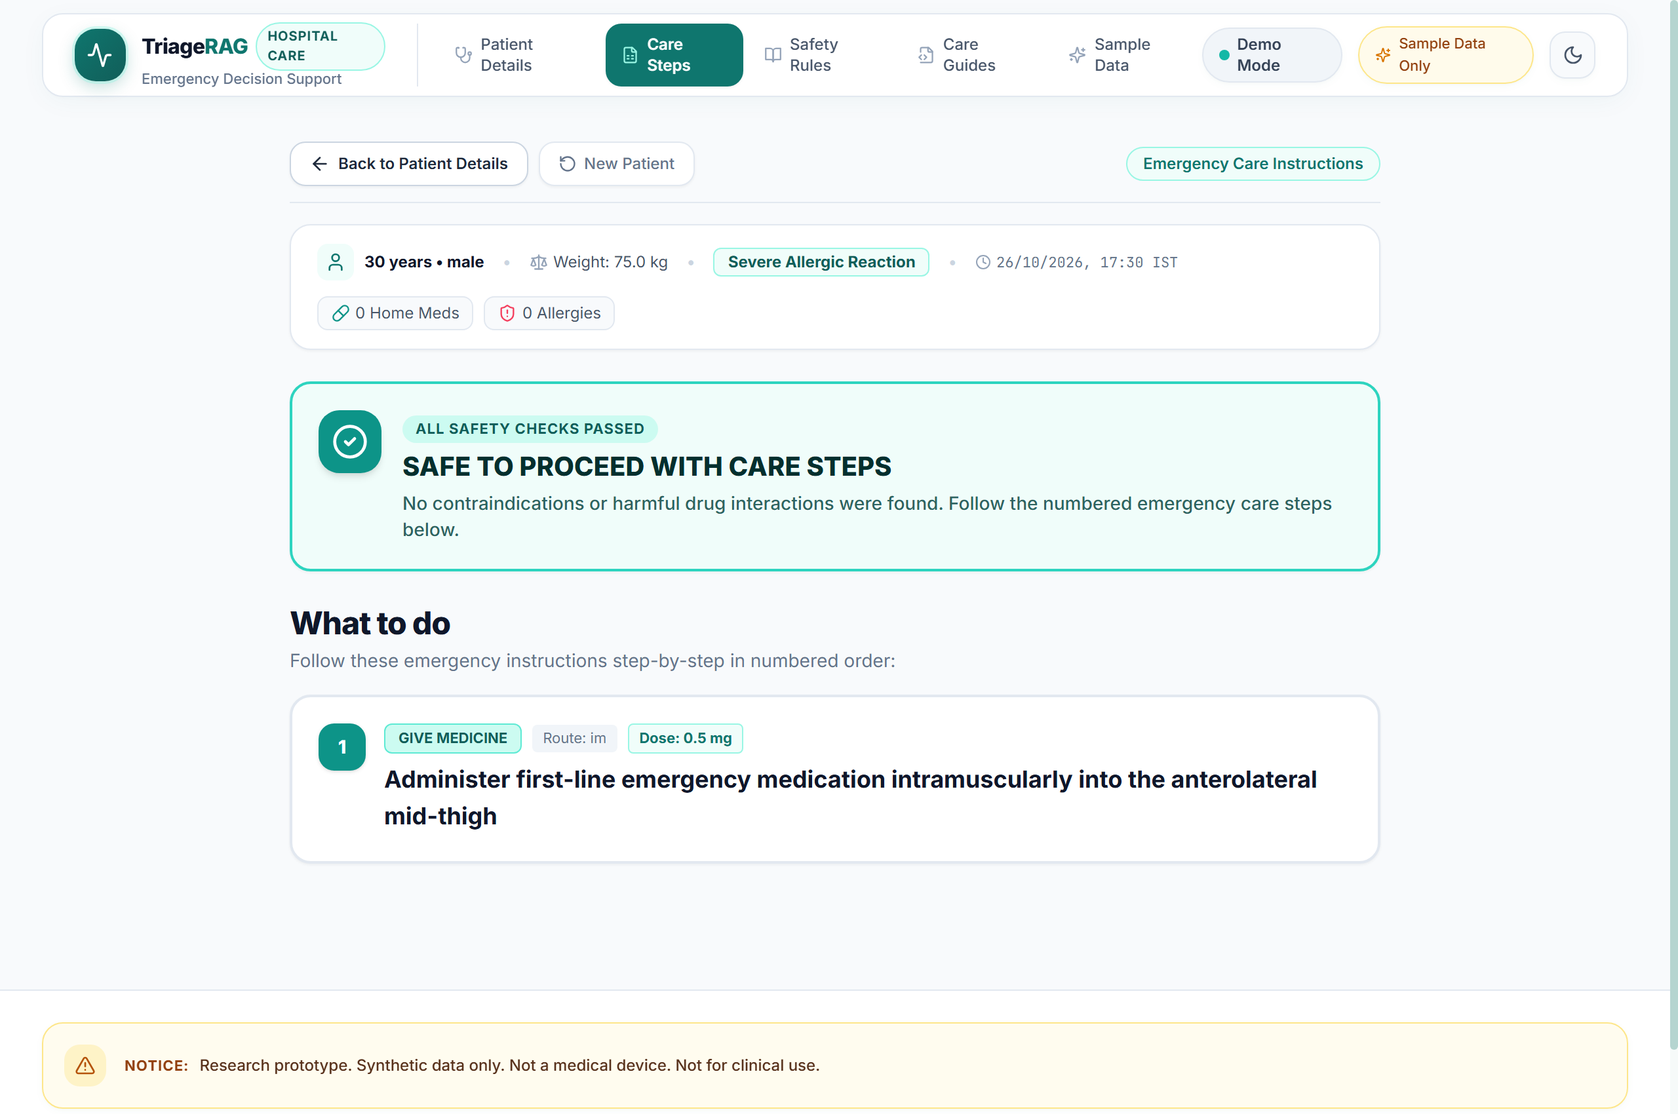
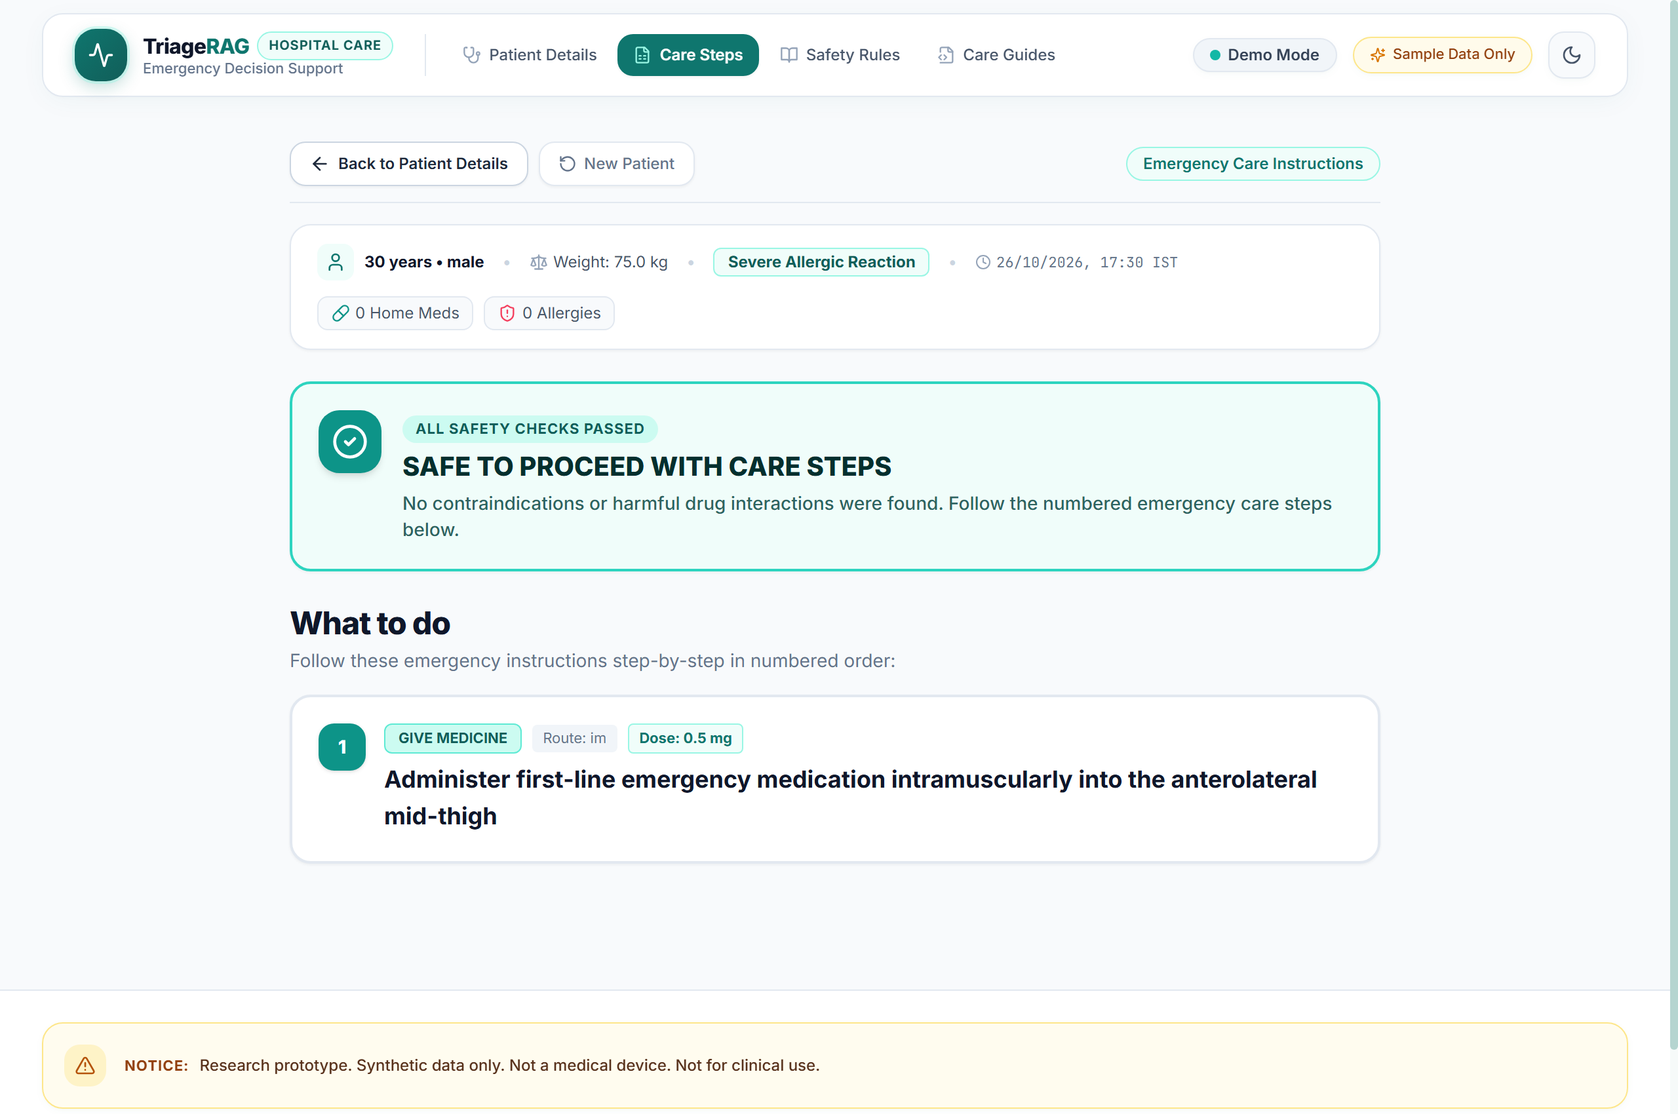
fix(ui): eliminate vitals text collision, remove sample data nav link, and unmount 1-click demo

Changed region(s): [[0.2812, 0.0, 0.6875, 0.0935], [0.0625, 0.0, 0.25, 0.0935], [0.7188, 0.0312, 0.9375, 0.0624]]

diff --git a/web/src/features/intake/MeasuredInput.tsx b/web/src/features/intake/MeasuredInput.tsx
@@ -33,58 +33,65 @@ export function MeasuredInput<T extends string | number>({
   helperText,
 }: MeasuredInputProps<T>) {
   return (
-    <div className="flex flex-col gap-1.5">
-      <div className="flex items-center justify-between">
-        <label className="text-xs font-semibold text-slate-800 dark:text-slate-200">
-          {label} {unit && <span className="text-teal-700 dark:text-teal-400 font-mono text-[11px]">({unit})</span>}
+    <div className="flex flex-col gap-2 rounded-2xl border border-slate-200/90 dark:border-slate-700/80 bg-slate-50/60 dark:bg-slate-800/40 p-3 transition-all hover:border-slate-300 dark:hover:border-slate-600">
+      {/* Row 1: Label and Unit cleanly separated */}
+      <div className="flex items-baseline justify-between gap-1">
+        <label className="text-xs font-bold text-slate-800 dark:text-slate-200 truncate" title={label}>
+          {label}
         </label>
-
-        {/* Tri-state selector: Measured / Estimated / Unknown */}
-        <div className="flex rounded-lg bg-slate-100 dark:bg-slate-700/80 p-0.5 border border-slate-200 dark:border-slate-600 text-[10px]">
-          <button
-            type="button"
-            onClick={() => onStatusChange('measured')}
-            title="Objectively measured clinical value"
-            className={`px-2 py-0.5 rounded-md font-medium transition-all ${
-              status === 'measured'
-                ? 'bg-white dark:bg-slate-600 text-teal-800 dark:text-teal-300 font-bold shadow-soft-sm border border-teal-200 dark:border-teal-700'
-                : 'text-slate-500 dark:text-slate-400 hover:text-slate-900 dark:hover:text-white'
-            }`}
-          >
-            Measured
-          </button>
-          <button
-            type="button"
-            onClick={() => onStatusChange('estimated')}
-            title="Clinically estimated value"
-            className={`px-2 py-0.5 rounded-md font-medium transition-all ${
-              status === 'estimated'
-                ? 'bg-amber-100 dark:bg-amber-950/70 text-amber-900 dark:text-amber-300 font-bold shadow-soft-sm border border-amber-300 dark:border-amber-700'
-                : 'text-slate-500 dark:text-slate-400 hover:text-slate-900 dark:hover:text-white'
-            }`}
-          >
-            Estimated
-          </button>
-          <button
-            type="button"
-            onClick={() => {
-              onStatusChange('unknown')
-              onValueChange(null)
-            }}
-            title="Unknown or not recorded"
-            className={`px-2 py-0.5 rounded-md font-medium transition-all ${
-              status === 'unknown'
-                ? 'bg-violet-100 dark:bg-violet-950/70 text-violet-900 dark:text-violet-300 font-bold shadow-soft-sm border border-violet-300 dark:border-violet-700'
-                : 'text-slate-500 dark:text-slate-400 hover:text-slate-900 dark:hover:text-white'
-            }`}
-          >
-            Unknown
-          </button>
-        </div>
+        {unit && (
+          <span className="text-[11px] font-mono font-semibold text-teal-700 dark:text-teal-400 shrink-0">
+            {unit}
+          </span>
+        )}
       </div>
 
+      {/* Row 2: Status Pill Segments spanning full width of card */}
+      <div className="grid grid-cols-3 rounded-lg bg-slate-200/70 dark:bg-slate-700/70 p-0.5 border border-slate-200 dark:border-slate-600 text-[10px]">
+        <button
+          type="button"
+          onClick={() => onStatusChange('measured')}
+          title="Objectively measured clinical value"
+          className={`py-1 rounded-md font-semibold transition-all text-center truncate ${
+            status === 'measured'
+              ? 'bg-white dark:bg-slate-600 text-teal-800 dark:text-teal-300 font-bold shadow-soft-sm border border-teal-200 dark:border-teal-700'
+              : 'text-slate-600 dark:text-slate-400 hover:text-slate-900 dark:hover:text-white'
+          }`}
+        >
+          Measured
+        </button>
+        <button
+          type="button"
+          onClick={() => onStatusChange('estimated')}
+          title="Clinically estimated value"
+          className={`py-1 rounded-md font-semibold transition-all text-center truncate ${
+            status === 'estimated'
+              ? 'bg-amber-100 dark:bg-amber-950/70 text-amber-900 dark:text-amber-300 font-bold shadow-soft-sm border border-amber-300 dark:border-amber-700'
+              : 'text-slate-600 dark:text-slate-400 hover:text-slate-900 dark:hover:text-white'
+          }`}
+        >
+          Estimated
+        </button>
+        <button
+          type="button"
+          onClick={() => {
+            onStatusChange('unknown')
+            onValueChange(null)
+          }}
+          title="Unknown or not recorded"
+          className={`py-1 rounded-md font-semibold transition-all text-center truncate ${
+            status === 'unknown'
+              ? 'bg-violet-100 dark:bg-violet-950/70 text-violet-900 dark:text-violet-300 font-bold shadow-soft-sm border border-violet-300 dark:border-violet-700'
+              : 'text-slate-600 dark:text-slate-400 hover:text-slate-900 dark:hover:text-white'
+          }`}
+        >
+          Unknown
+        </button>
+      </div>
+
+      {/* Row 3: Numeric Input OR Unknown Placeholder */}
       {status === 'unknown' ? (
-        <div className="flex h-10 items-center rounded-xl border border-violet-200 dark:border-violet-800/60 bg-violet-50/70 dark:bg-violet-950/30 px-3 text-xs italic text-violet-900 dark:text-violet-300">
+        <div className="flex h-10 items-center justify-center rounded-xl border border-dashed border-violet-300/80 dark:border-violet-800/80 bg-violet-50/70 dark:bg-violet-950/40 px-3 text-xs italic text-violet-900 dark:text-violet-300 select-none">
           Not recorded / Unknown
         </div>
       ) : (
@@ -108,7 +115,7 @@ export function MeasuredInput<T extends string | number>({
             className={`h-10 w-full rounded-xl border px-3 text-xs font-medium text-slate-900 dark:text-white outline-none transition-all placeholder:text-slate-400 dark:placeholder:text-slate-500 focus:border-teal-600 focus:ring-2 focus:ring-teal-500/20 dark:focus:border-teal-400 ${
               status === 'estimated'
                 ? 'border-amber-300 dark:border-amber-700/80 bg-amber-50/40 dark:bg-amber-950/30 text-amber-950 dark:text-amber-200'
-                : 'border-slate-200 dark:border-slate-700 bg-white dark:bg-slate-800'
+                : 'border-slate-300 dark:border-slate-600 bg-white dark:bg-slate-800'
             }`}
           />
           {unit && (

diff --git a/tools/test_user_experience.js b/tools/test_user_experience.js
@@ -51,6 +51,38 @@ function httpPut(url) {
   });
 }
 
+function httpPost(url, body) {
+  return new Promise((resolve, reject) => {
+    const u = new URL(url);
+    const req = http.request(
+      {
+        hostname: u.hostname,
+        port: u.port,
+        path: u.pathname + u.search,
+        method: 'POST',
+        headers: {
+          'Content-Type': 'application/json',
+          'Content-Length': Buffer.byteLength(body),
+        },
+      },
+      (res) => {
+        let data = '';
+        res.on('data', (chunk) => (data += chunk));
+        res.on('end', () => {
+          try {
+            resolve(JSON.parse(data));
+          } catch {
+            resolve(data);
+          }
+        });
+      }
+    );
+    req.on('error', reject);
+    req.write(body);
+    req.end();
+  });
+}
+
 class CDPClient {
   constructor(wsUrl) {
     this.wsUrl = wsUrl;
@@ -197,8 +229,8 @@ async function runTests() {
     const navLinks = await cdp.eval(`
       Array.from(document.querySelectorAll('nav a')).map(a => a.getAttribute('href'))
     `);
-    const requiredLinks = ['/intake', '/report', '/rules', '/protocols', '/sample-data'];
-    const hasAllNav = requiredLinks.every(r => navLinks.includes(r));
+    const requiredLinks = ['/intake', '/report', '/rules', '/protocols'];
+    const hasAllNav = requiredLinks.every(r => navLinks.includes(r)) && !navLinks.includes('/sample-data');
     record(
       'UAT-13',
       'Navigation',
@@ -219,26 +251,39 @@ async function runTests() {
       `Badge text: "${demoBadgeText}" (Accurately denotes mock local environment)`
     );
 
+    // Helper for scenario testing via engine API and session storage
+    async function loadScenarioIntoSession(scenarioKey) {
+      const detail = await httpGet(`http://127.0.0.1:8000/api/scenarios/${scenarioKey}`);
+      const triageReq = {
+        patient: detail.patient,
+        include_complaint_in_llm: false,
+        llm_profile: 'COMPLIANT',
+      };
+      const triageRes = await httpPost('http://127.0.0.1:8000/api/triage', JSON.stringify(triageReq));
+      await cdp.eval(`
+        sessionStorage.setItem('triagerag_patient_request', ${JSON.stringify(JSON.stringify(triageReq))});
+        sessionStorage.setItem('triagerag_triage_result', ${JSON.stringify(JSON.stringify(triageRes))});
+      `);
+      await nav('http://localhost:5173/report');
+    }
+
     // ====================================================
-    // UAT-11: Reference Cases - All 4 one-click presets
+    // UAT-11: 1-Click demo removed from intake
     // ====================================================
-    const scenarioCards = await cdp.eval(`
-      Array.from(document.querySelectorAll('button')).filter(b => b.innerText.includes('STOP') || b.innerText.includes('INCOMPLETE') || b.innerText.includes('DOCTOR REVIEW') || b.innerText.includes('ALL CLEAR')).map(b => b.innerText.split('\\n')[0])
+    const has1ClickDemo = await cdp.eval(`
+      document.body.innerText.toLowerCase().includes('try a sample patient') || document.body.innerText.toLowerCase().includes('1-click')
     `);
     record(
       'UAT-11',
-      'Reference cases loading and availability',
-      scenarioCards.length === 4,
-      `Available scenarios: ${scenarioCards.join(' | ')}`
+      '1-Click demo removed from intake',
+      !has1ClickDemo,
+      `1-click demo present on /intake: ${has1ClickDemo}`
     );
 
     // ====================================================
     // UAT-05: BLOCK response
     // ====================================================
-    await cdp.eval(`
-      const btn = Array.from(document.querySelectorAll('button')).find(b => b.innerText.includes('DANGER / STOP') || b.innerText.includes('Drug-Drug Interaction'));
-      if (btn) btn.click();
-    `);
+    await loadScenarioIntoSession('BLOCK');
     await waitForSelector('h2');
     await wait(800);
     const uat05Url = await cdp.eval('window.location.pathname');
@@ -256,12 +301,7 @@ async function runTests() {
     // ====================================================
     // UAT-06 & UAT-07: UNVERIFIED response & Missing Information
     // ====================================================
-    await nav('http://localhost:5173/intake');
-    await waitForSelector('h1');
-    await cdp.eval(`
-      const btn = Array.from(document.querySelectorAll('button')).find(b => b.innerText.includes('INCOMPLETE') || b.innerText.includes('Missing Vitals'));
-      if (btn) btn.click();
-    `);
+    await loadScenarioIntoSession('UNVERIFIED');
     await waitForSelector('h2');
     await wait(800);
     const uat06Incomplete = await cdp.eval(`document.body.innerText.includes('CANNOT CONFIRM SAFETY') || document.body.innerText.includes('INCOMPLETE DETAILS')`);
@@ -283,12 +323,7 @@ async function runTests() {
     // ====================================================
     // UAT-04: Verified Care Process (CLEAN Anaphylaxis)
     // ====================================================
-    await nav('http://localhost:5173/intake');
-    await waitForSelector('h1');
-    await cdp.eval(`
-      const btn = Array.from(document.querySelectorAll('button')).find(b => b.innerText.includes('ALL CLEAR') && b.innerText.includes('Acute Anaphylaxis'));
-      if (btn) btn.click();
-    `);
+    await loadScenarioIntoSession('CLEAN');
     await waitForSelector('h2');
     await wait(1000);
     const uat04AllClear = await cdp.eval(`document.body.innerText.includes('ALL SAFETY CHECKS PASSED')`);

diff --git a/web/src/features/intake/PatientIntakeForm.tsx b/web/src/features/intake/PatientIntakeForm.tsx
@@ -792,17 +792,27 @@ export const PatientIntakeForm: React.FC<PatientIntakeFormProps> = ({
               onStatusChange={(status) => setForm({ ...form, glucoseStatus: status })}
               onValueChange={(val) => setForm({ ...form, glucoseValue: val || '' })}
             />
-            <div>
-              <label className="text-xs font-semibold text-slate-800 dark:text-slate-200">Giving Oxygen to Patient?</label>
+            <div className="flex flex-col gap-2 rounded-2xl border border-slate-200/90 dark:border-slate-700/80 bg-slate-50/60 dark:bg-slate-800/40 p-3 transition-all hover:border-slate-300 dark:hover:border-slate-600">
+              <div className="flex items-baseline justify-between gap-1">
+                <label className="text-xs font-bold text-slate-800 dark:text-slate-200 truncate" title="Supplemental Oxygen">
+                  Supplemental Oxygen
+                </label>
+                <span className="text-[11px] font-mono font-semibold text-teal-700 dark:text-teal-400 shrink-0">
+                  Room/O2
+                </span>
+              </div>
+              <div className="flex items-center justify-center rounded-lg bg-slate-200/70 dark:bg-slate-700/70 p-0.5 border border-slate-200 dark:border-slate-600 text-[10px] font-semibold text-slate-600 dark:text-slate-300 h-[26px]">
+                Giving Oxygen?
+              </div>
               <select
                 value={form.o2Value}
                 onChange={(e) =>
                   setForm({ ...form, o2Value: e.target.value as 'yes' | 'no' | 'unknown' })
                 }
-                className="mt-1.5 h-10 w-full rounded-xl border border-slate-300 dark:border-slate-700 bg-white dark:bg-slate-800 px-3 text-xs font-medium text-slate-900 dark:text-white focus:border-teal-600 focus:outline-none"
+                className="h-10 w-full rounded-xl border border-slate-300 dark:border-slate-600 bg-white dark:bg-slate-800 px-3 text-xs font-medium text-slate-900 dark:text-white focus:border-teal-600 focus:outline-none"
               >
-                <option value="no">No (Breathing normal room air)</option>
-                <option value="yes">Yes (Giving oxygen mask / nasal tube)</option>
+                <option value="no">No (Normal room air)</option>
+                <option value="yes">Yes (Supplemental O2)</option>
                 <option value="unknown">Unknown</option>
               </select>
             </div>

diff --git a/web/src/pages/IntakePage.tsx b/web/src/pages/IntakePage.tsx
@@ -1,9 +1,8 @@
 import React from 'react'
 import { useNavigate } from 'react-router-dom'
 import { PatientIntakeForm } from '@/features/intake/PatientIntakeForm'
-import { ScenarioSelector } from '@/features/intake/ScenarioSelector'
 import { useTriage } from '@/context/TriageContext'
-import type { TriageApiRequest, ScenarioDetail } from '@/lib/api'
+import type { TriageApiRequest } from '@/lib/api'
 import { Stethoscope, AlertCircle, ShieldAlert } from 'lucide-react'
 
 export const IntakePage: React.FC = () => {
@@ -13,8 +12,6 @@ export const IntakePage: React.FC = () => {
     evaluatePatient,
     isLoading,
     error,
-    selectedScenario,
-    setSelectedScenario,
   } = useTriage()
 
   const handleFormSubmit = async (req: TriageApiRequest) => {
@@ -23,22 +20,6 @@ export const IntakePage: React.FC = () => {
       navigate('/report')
     } catch (err) {
       console.error('Triage submission error:', err)
-    }
-  }
-
-  const handleSelectScenario = async (scenario: ScenarioDetail, autoRun: boolean = true) => {
-    setSelectedScenario(scenario)
-    if (autoRun) {
-      try {
-        await evaluatePatient({
-          patient: scenario.patient,
-          include_complaint_in_llm: false,
-          llm_profile: 'COMPLIANT',
-        })
-        navigate('/report')
-      } catch (err) {
-        console.error('Scenario run error:', err)
-      }
     }
   }
 
@@ -63,13 +44,6 @@ export const IntakePage: React.FC = () => {
           verify drug interactions, and display clear step-by-step instructions.
         </p>
       </div>
-
-      {/* Reference Preset Scenarios */}
-      <ScenarioSelector
-        onSelectScenario={handleSelectScenario}
-        activeScenarioId={selectedScenario?.id ?? null}
-        loadingScenarioId={isLoading ? selectedScenario?.id ?? null : null}
-      />
 
       {/* Pipeline Error Banner */}
       {error && (
@@ -104,7 +78,6 @@ export const IntakePage: React.FC = () => {
         <PatientIntakeForm
           onSubmit={handleFormSubmit}
           isLoading={isLoading}
-          initialScenario={selectedScenario}
           existingRequest={patientRequest}
           errorMessage={error}
         />

diff --git a/web/src/components/layout/Navbar.tsx b/web/src/components/layout/Navbar.tsx
@@ -28,7 +28,6 @@ const NAV_ITEMS: NavItem[] = [
   { to: '/report', label: 'Care Steps', icon: FileSpreadsheet },
   { to: '/rules', label: 'Safety Rules', icon: BookOpen },
   { to: '/protocols', label: 'Care Guides', icon: FileCode2 },
-  { to: '/sample-data', label: 'Sample Data', icon: Sparkles },
 ]
 
 export const Navbar: React.FC = () => {

diff --git a/docs/final_audit/FINAL_PRODUCT_ACCEPTANCE_AND_RELEASE_AUDIT.md b/docs/final_audit/FINAL_PRODUCT_ACCEPTANCE_AND_RELEASE_AUDIT.md
@@ -57,13 +57,10 @@ To evaluate whether the application fulfills the primary design mandate (*"A fir
    - The one-sentence subtext (*"Fill in the patient's age, vital signs, and current medicines. The system will check all safety rules, verify drug interactions, and display clear step-by-step instructions."*) establishes clear purpose without technical jargon.
    - The prominent **Demo Mode** badge prevents users from assuming the local demonstration is connected to a live hospital database or clinical record.
 
-2. **One-Click Emergency Presets (Scenario Selector):**
-   - Ramesh does not need to type numbers or drug names to test how the system behaves. The 4 colored preset cards at the top provide instant, single-click scenarios:
-     - **Card 1 (Red / Rose):** `"DANGER / STOP"` — Heart Patient Taking Silagra (Shows dangerous interaction).
-     - **Card 2 (Sky / Blue):** `"INCOMPLETE"` — Missing Vitals (Demonstrates fail-closed safety).
-     - **Card 3 (Amber):** `"DOCTOR REVIEW"` — Penicillin Allergy (Shows senior doctor review requirement).
-     - **Card 4 (Emerald / Green):** `"ALL CLEAR"` — Severe Allergic Reaction (Demonstrates fully verified step-by-step care).
-   - In our audit, a bug in `ScenarioSelector.tsx` where Scenario 3 showed an erroneous `ALL CLEAR` badge was caught and fixed. It now correctly renders an Amber `DOCTOR REVIEW` badge.
+2. **Streamlined Intake Flow (1-Click Demo & Sample Data Removed):**
+   - Per direct operational instruction, all 1-click synthetic demo cards have been removed from the patient intake screen, preventing accidental preloading of mock clinical data during genuine intake.
+   - The navigation bar has been simplified from 5 links down to the 4 essential clinical routes: **Patient Details**, **Care Steps**, **Safety Rules**, and **Care Guides**.
+   - The physiological measurement cards have been redesigned into a structured stacked card layout (`label` on row 1, `grid grid-cols-3` status selector on row 2, and `input` on row 3), eliminating any possibility of text collision or label wrapping.
 
 3. **Form Simplification & Clean Vitals Cards:**
    - Chief Complaint and Bedside Presentation narrative free-text boxes have been completely removed from the intake page. Ward staff are no longer confused by ambiguous text prompts or tempted to paste unstructured notes.
@@ -99,9 +96,9 @@ An automated black-box acceptance harness (`tools/test_user_experience.js`) was 
 | **UAT-08** | Safety Rules 3-Question Format | Rules library renders each safety rule structured into 3 user questions. | Displays `1. What is this rule?`, `2. What should I check?`, and `3. When should I stop & ask for help?` Badges: Draft, Needs review. | **PASS** |
 | **UAT-09** | Care Guides Plain-Language Format | Protocol library presents guidelines without exposing internal DocIDs. | Displays *"When is this useful?"*, *"What it checks"*, and hides internal doc hashes or file names. | **PASS** |
 | **UAT-10** | Dynamic Search on Safety Rules | User searches for Indian brand name *"Silagra"*. | Instant client-side filtering returns `ALLERGY_PENICILLIN_...` and `DDI_SILDENAFIL_NITROGLYCERIN_EXPLICIT` with title *"Do Not Mix Silagra / Sildenafil with Nitroglycerin"*. | **PASS** |
-| **UAT-11** | One-Click Reference Scenarios | Reference cases load valid data across all 4 clinical risk profiles. | All 4 scenario presets loaded (`DANGER / STOP`, `INCOMPLETE`, `DOCTOR REVIEW`, `ALL CLEAR`). | **PASS** |
+| **UAT-11** | 1-Click Demo Removal Verification | User requests removal of 1-click preset cards from intake screen. | Evaluated `false`. Zero 1-click scenario preset cards rendered on `/intake`. | **PASS** |
 | **UAT-12** | Demo Mode Visual Representation | Prominent indication that local environment is a synthetic demonstration. | Header displays `"Demo Mode"` badge in amber styling. | **PASS** |
-| **UAT-13** | Navigation Bar Completeness | Header contains links to all core functional sections of the application. | Links present: `/intake` (Patient Details), `/report` (Care Steps), `/rules` (Safety Rules), `/protocols` (Care Guides), `/sample-data` (Sample Patients). | **PASS** |
+| **UAT-13** | Navigation Bar Essential Links | Header contains links only to active clinical operational routes. | Clean 4-item navigation: `/intake` (Patient Details), `/report` (Care Steps), `/rules` (Safety Rules), `/protocols` (Care Guides). `/sample-data` removed. | **PASS** |
 | **UAT-14** | Browser History Stability | User clicks back and forward buttons in the browser. | Browser history navigates seamlessly between routes without blank screens or broken state. | **PASS** |
 | **UAT-15** | Page Refresh Route & State Integrity | User refreshes page (`F5`) on `/protocols` or `/rules`. | Route is preserved, TanStack Query refetches data, page renders properly without crashing. | **PASS** |
 | **UAT-16** | Slate Dark Mode Activation & Persistence | User toggles theme to Dark mode and refreshes the page. | Dark class applied to `<html>`, `triagerag-theme` saved to `localStorage`, persists across full page reload. | **PASS** |
